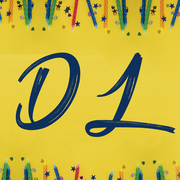
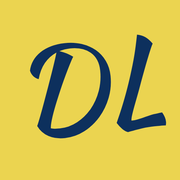
Destacar las fiestas de noche y nuevo icono DL de la web
- Portada: título, descripción, texto del hero y cinta con 'fiestas de noche'
- Página de noche orientada a 'fiestas de noche' además de despedidas
- Favicon e iconos de app con monograma DL en el estilo de la marca

diff --git a/despedidas-fiestas-noche-alhaurin-de-la-torre/index.html b/despedidas-fiestas-noche-alhaurin-de-la-torre/index.html
@@ -3,8 +3,8 @@
 <head>
   <meta charset="utf-8">
   <meta name="viewport" content="width=device-width, initial-scale=1, viewport-fit=cover">
-  <title>Local para despedidas y fiestas de noche en Alhaurín de la Torre | Diver Lauro</title>
-  <meta name="description" content="¿Despedida de soltera o soltero, cumpleaños de adultos o fiesta privada? Diver Lauro abre también de noche en Alhaurín de la Torre: música, espacio para bailar y salón climatizado. Reserva por WhatsApp.">
+  <title>Local para fiestas de noche y despedidas en Alhaurín de la Torre | Diver Lauro</title>
+  <meta name="description" content="Local para fiestas privadas de noche en Alhaurín de la Torre: cumpleaños de adultos, despedidas de soltera y soltero, aniversarios y fiestas con amigos. Música, espacio para bailar y salón climatizado. Reserva por WhatsApp.">
   <meta name="robots" content="index, follow, max-image-preview:large">
   <link rel="canonical" href="https://diverlauro.com/despedidas-fiestas-noche-alhaurin-de-la-torre/">
   <meta name="theme-color" content="#EBD450">
@@ -15,15 +15,15 @@
   <meta property="og:type" content="website">
   <meta property="og:locale" content="es_ES">
   <meta property="og:site_name" content="Diver Lauro">
-  <meta property="og:title" content="Local para despedidas y fiestas de noche en Alhaurín de la Torre | Diver Lauro">
-  <meta property="og:description" content="¿Despedida de soltera o soltero, cumpleaños de adultos o fiesta privada? Diver Lauro abre también de noche en Alhaurín de la Torre: música, espacio para bailar y salón climatizado. Reserva por WhatsApp.">
+  <meta property="og:title" content="Local para fiestas de noche y despedidas en Alhaurín de la Torre | Diver Lauro">
+  <meta property="og:description" content="Local para fiestas privadas de noche en Alhaurín de la Torre: cumpleaños de adultos, despedidas de soltera y soltero, aniversarios y fiestas con amigos. Música, espacio para bailar y salón climatizado. Reserva por WhatsApp.">
   <meta property="og:url" content="https://diverlauro.com/despedidas-fiestas-noche-alhaurin-de-la-torre/">
   <meta property="og:image" content="https://diverlauro.com/img/og-image.jpg">
   <meta property="og:image:width" content="1200">
   <meta property="og:image:height" content="630">
   <meta name="twitter:card" content="summary_large_image">
-  <meta name="twitter:title" content="Local para despedidas y fiestas de noche en Alhaurín de la Torre | Diver Lauro">
-  <meta name="twitter:description" content="¿Despedida de soltera o soltero, cumpleaños de adultos o fiesta privada? Diver Lauro abre también de noche en Alhaurín de la Torre: música, espacio para bailar y salón climatizado. Reserva por WhatsApp.">
+  <meta name="twitter:title" content="Local para fiestas de noche y despedidas en Alhaurín de la Torre | Diver Lauro">
+  <meta name="twitter:description" content="Local para fiestas privadas de noche en Alhaurín de la Torre: cumpleaños de adultos, despedidas de soltera y soltero, aniversarios y fiestas con amigos. Música, espacio para bailar y salón climatizado. Reserva por WhatsApp.">
   <meta name="twitter:image" content="https://diverlauro.com/img/og-image.jpg">
   <link rel="icon" href="/img/favicon-48.png" sizes="48x48" type="image/png">
   <link rel="icon" href="/img/favicon-32.png" sizes="32x32" type="image/png">
@@ -54,7 +54,7 @@
     {
       "@type": "ListItem",
       "position": 2,
-      "name": "Despedidas y fiestas de noche",
+      "name": "Fiestas de noche y despedidas",
       "item": "https://diverlauro.com/despedidas-fiestas-noche-alhaurin-de-la-torre/"
     }
   ]
@@ -64,9 +64,9 @@
 {
   "@context": "https://schema.org",
   "@type": "Service",
-  "name": "Despedidas y fiestas de noche en Alhaurín de la Torre",
-  "serviceType": "Despedidas y fiestas de noche",
-  "description": "¿Despedida de soltera o soltero, cumpleaños de adultos o fiesta privada? Diver Lauro abre también de noche en Alhaurín de la Torre: música, espacio para bailar y salón climatizado. Reserva por WhatsApp.",
+  "name": "Fiestas de noche en Alhaurín de la Torre",
+  "serviceType": "Fiestas de noche y despedidas",
+  "description": "Local para fiestas privadas de noche en Alhaurín de la Torre: cumpleaños de adultos, despedidas de soltera y soltero, aniversarios y fiestas con amigos. Música, espacio para bailar y salón climatizado. Reserva por WhatsApp.",
   "areaServed": "Alhaurín de la Torre, Málaga",
   "provider": {
     "@id": "https://diverlauro.com/#negocio",
@@ -197,10 +197,10 @@
     <section class="page-hero page-hero-night" aria-labelledby="page-title">
       <div class="container page-hero-inner">
         <div>
-          <nav class="crumbs reveal" aria-label="Migas de pan"><a href="/">Inicio</a> <span aria-hidden="true">/</span> <span>Despedidas y fiestas de noche</span></nav>
+          <nav class="crumbs reveal" aria-label="Migas de pan"><a href="/">Inicio</a> <span aria-hidden="true">/</span> <span>Fiestas de noche y despedidas</span></nav>
           <p class="kicker reveal" style="--d:.05s">De noche</p>
-          <h1 id="page-title" class="reveal" style="--d:.1s">Despedidas y fiestas de noche en Alhaurín de la Torre</h1>
-          <p class="hero-lead reveal" style="--d:.18s">¿Despedida de soltera o soltero, unos 40 o una fiesta con amigos? Diver Lauro también abre de noche: un salón para tu grupo con música y espacio para bailar.</p>
+          <h1 id="page-title" class="reveal" style="--d:.1s">Fiestas de noche en Alhaurín de la Torre</h1>
+          <p class="hero-lead reveal" style="--d:.18s">De noche, Diver Lauro es el sitio para tu fiesta: cumpleaños de adultos, despedidas de soltera o soltero, aniversarios o simplemente una noche con amigos. Un salón para tu grupo, con música y espacio para bailar.</p>
           <div class="hero-actions reveal" style="--d:.26s">
             <a class="btn btn-primary btn-lg" href="https://wa.me/34647913022?text=Hola%2C%20me%20gustar%C3%ADa%20informaci%C3%B3n%20para%20una%20fiesta%20de%20noche%20o%20despedida%20en%20Diver%20Lauro" target="_blank" rel="noopener"><svg class="ic"><use href="#i-chat"/></svg> Consultar por WhatsApp</a>
             <a class="btn btn-outline btn-lg" href="tel:+34647913022"><svg class="ic"><use href="#i-phone"/></svg> 647 91 30 22</a>
@@ -213,7 +213,7 @@
         <div class="page-panel reveal page-panel-night" style="--d:.15s;--c:#7A3CFF" aria-hidden="true">
             <span class="pp-ic"><svg class="ic"><use href="#i-glass"/></svg></span>
             <span class="pp-b pp-b1"></span><span class="pp-b pp-b2"></span><span class="pp-b pp-b3"></span>
-            <span class="pp-label">Despedidas · Cumpleaños · Fiestas privadas</span>
+            <span class="pp-label">Fiestas privadas · Despedidas · Cumpleaños</span>
           </div>
       </div>
     </section>
@@ -314,7 +314,7 @@
       <nav class="footer-nav" aria-label="Celebraciones">
         <a href="/cumpleanos-infantiles-alhaurin-de-la-torre/">Cumpleaños infantiles</a>
         <a href="/comuniones-bautizos-alhaurin-de-la-torre/">Comuniones y bautizos</a>
-        <a href="/despedidas-fiestas-noche-alhaurin-de-la-torre/">Despedidas y fiestas de noche</a>
+        <a href="/despedidas-fiestas-noche-alhaurin-de-la-torre/">Fiestas de noche y despedidas</a>
         <a href="/comidas-empresa-eventos-alhaurin-de-la-torre/">Empresas, peñas y eventos</a>
         <a href="/#reservar">Reservar</a>
         <a href="/#contacto">Contacto</a>

diff --git a/index.html b/index.html
@@ -3,8 +3,8 @@
 <head>
   <meta charset="utf-8">
   <meta name="viewport" content="width=device-width, initial-scale=1, viewport-fit=cover">
-  <title>Diver Lauro · Salón de celebraciones en Alhaurín de la Torre (Málaga)</title>
-  <meta name="description" content="Diver Lauro, salón de celebraciones en Alhaurín de la Torre (Málaga). Cumpleaños, comuniones, bautizos, bodas, despedidas y comidas de empresa, de día y de noche. Parque de bolas, sonido y salón climatizado. Reserva: 647 91 30 22.">
+  <title>Diver Lauro · Salón de celebraciones y fiestas en Alhaurín de la Torre (Málaga)</title>
+  <meta name="description" content="Diver Lauro, salón de celebraciones en Alhaurín de la Torre (Málaga). Cumpleaños, comuniones, bautizos, bodas y comidas de empresa de día, y fiestas privadas y despedidas de noche. Parque de bolas, sonido y salón climatizado. Reserva: 647 91 30 22.">
   <meta name="robots" content="index, follow, max-image-preview:large">
   <link rel="canonical" href="https://diverlauro.com/">
   <meta name="theme-color" content="#EBD450">
@@ -15,15 +15,15 @@
   <meta property="og:type" content="website">
   <meta property="og:locale" content="es_ES">
   <meta property="og:site_name" content="Diver Lauro">
-  <meta property="og:title" content="Diver Lauro · Salón de celebraciones en Alhaurín de la Torre (Málaga)">
-  <meta property="og:description" content="Diver Lauro, salón de celebraciones en Alhaurín de la Torre (Málaga). Cumpleaños, comuniones, bautizos, bodas, despedidas y comidas de empresa, de día y de noche. Parque de bolas, sonido y salón climatizado. Reserva: 647 91 30 22.">
+  <meta property="og:title" content="Diver Lauro · Salón de celebraciones y fiestas en Alhaurín de la Torre (Málaga)">
+  <meta property="og:description" content="Diver Lauro, salón de celebraciones en Alhaurín de la Torre (Málaga). Cumpleaños, comuniones, bautizos, bodas y comidas de empresa de día, y fiestas privadas y despedidas de noche. Parque de bolas, sonido y salón climatizado. Reserva: 647 91 30 22.">
   <meta property="og:url" content="https://diverlauro.com/">
   <meta property="og:image" content="https://diverlauro.com/img/og-image.jpg">
   <meta property="og:image:width" content="1200">
   <meta property="og:image:height" content="630">
   <meta name="twitter:card" content="summary_large_image">
-  <meta name="twitter:title" content="Diver Lauro · Salón de celebraciones en Alhaurín de la Torre (Málaga)">
-  <meta name="twitter:description" content="Diver Lauro, salón de celebraciones en Alhaurín de la Torre (Málaga). Cumpleaños, comuniones, bautizos, bodas, despedidas y comidas de empresa, de día y de noche. Parque de bolas, sonido y salón climatizado. Reserva: 647 91 30 22.">
+  <meta name="twitter:title" content="Diver Lauro · Salón de celebraciones y fiestas en Alhaurín de la Torre (Málaga)">
+  <meta name="twitter:description" content="Diver Lauro, salón de celebraciones en Alhaurín de la Torre (Málaga). Cumpleaños, comuniones, bautizos, bodas y comidas de empresa de día, y fiestas privadas y despedidas de noche. Parque de bolas, sonido y salón climatizado. Reserva: 647 91 30 22.">
   <meta name="twitter:image" content="https://diverlauro.com/img/og-image.jpg">
   <link rel="icon" href="/img/favicon-48.png" sizes="48x48" type="image/png">
   <link rel="icon" href="/img/favicon-32.png" sizes="32x32" type="image/png">
@@ -265,8 +265,8 @@
           </span>
         </h1>
         <p class="hero-lead reveal" style="--d:.3s">
-          Cumpleaños, comuniones, bodas, despedidas, comidas de empresa… Un salón amplio con parque de bolas para los peques
-          y espacio de sobra para que los mayores lo den todo. <strong>Tú pones la fiesta, nosotros el sitio.</strong>
+          De día, cumpleaños, comuniones y comidas familiares con parque de bolas para los peques.
+          De noche, <a class="lead-link" href="/despedidas-fiestas-noche-alhaurin-de-la-torre/">fiestas para mayores</a>: despedidas, cumpleaños y celebraciones con música hasta tarde. <strong>Tú pones la fiesta, nosotros el sitio.</strong>
         </p>
         <div class="mode-switch reveal" style="--d:.38s" role="group" aria-label="Elige el tipo de fiesta">
           <button type="button" data-set-mode="day"><svg class="ic"><use href="#i-sun"/></svg> Fiesta de día</button>
@@ -287,7 +287,7 @@
 
     <div class="marquee" aria-hidden="true">
       <div class="marquee-track">
-        <span>Cumpleaños</span><b>✦</b><span>Comuniones</span><b>✦</b><span>Bautizos</span><b>✦</b><span>Bodas</span><b>✦</b><span>Despedidas de solter@s</span><b>✦</b><span>Comidas de empresa</span><b>✦</b><span>Aniversarios</span><b>✦</b><span>Peñas y eventos</span><b>✦</b><span>Fiestas infantiles</span><b>✦</b><span>Cumpleaños</span><b>✦</b><span>Comuniones</span><b>✦</b><span>Bautizos</span><b>✦</b><span>Bodas</span><b>✦</b><span>Despedidas de solter@s</span><b>✦</b><span>Comidas de empresa</span><b>✦</b><span>Aniversarios</span><b>✦</b><span>Peñas y eventos</span><b>✦</b><span>Fiestas infantiles</span><b>✦</b>
+        <span>Cumpleaños</span><b>✦</b><span>Comuniones</span><b>✦</b><span>Bautizos</span><b>✦</b><span>Bodas</span><b>✦</b><span>Fiestas de noche</span><b>✦</b><span>Despedidas de solter@s</span><b>✦</b><span>Comidas de empresa</span><b>✦</b><span>Aniversarios</span><b>✦</b><span>Peñas y eventos</span><b>✦</b><span>Fiestas infantiles</span><b>✦</b><span>Cumpleaños</span><b>✦</b><span>Comuniones</span><b>✦</b><span>Bautizos</span><b>✦</b><span>Bodas</span><b>✦</b><span>Fiestas de noche</span><b>✦</b><span>Despedidas de solter@s</span><b>✦</b><span>Comidas de empresa</span><b>✦</b><span>Aniversarios</span><b>✦</b><span>Peñas y eventos</span><b>✦</b><span>Fiestas infantiles</span><b>✦</b>
       </div>
     </div>
 
@@ -319,8 +319,8 @@
           </a>
           <a class="cel-card reveal tilt" style="--d:0.23s;--c:#9B5DE5" href="/despedidas-fiestas-noche-alhaurin-de-la-torre/">
             <span class="cel-ic"><svg class="ic"><use href="#i-glass"/></svg></span>
-            <h3>Despedidas y fiestas de noche</h3>
-            <p>Despedidas de soltera y soltero, cumpleaños de adultos y fiestas privadas.</p>
+            <h3>Fiestas de noche y despedidas</h3>
+            <p>Fiestas privadas para mayores, despedidas de soltera y soltero y cumpleaños de adultos.</p>
             <span class="cel-more">Ver más <svg class="ic"><use href="#i-arrow"/></svg></span>
           </a>
           <a class="cel-card reveal tilt" style="--d:0.29s;--c:#FF4FD8" href="/despedidas-fiestas-noche-alhaurin-de-la-torre/">
@@ -625,7 +625,7 @@
       <nav class="footer-nav" aria-label="Celebraciones">
         <a href="/cumpleanos-infantiles-alhaurin-de-la-torre/">Cumpleaños infantiles</a>
         <a href="/comuniones-bautizos-alhaurin-de-la-torre/">Comuniones y bautizos</a>
-        <a href="/despedidas-fiestas-noche-alhaurin-de-la-torre/">Despedidas y fiestas de noche</a>
+        <a href="/despedidas-fiestas-noche-alhaurin-de-la-torre/">Fiestas de noche y despedidas</a>
         <a href="/comidas-empresa-eventos-alhaurin-de-la-torre/">Empresas, peñas y eventos</a>
         <a href="/#reservar">Reservar</a>
         <a href="/#contacto">Contacto</a>

diff --git a/redes-sociales/plantillas/perfil__icono-web.html b/redes-sociales/plantillas/perfil__icono-web.html
@@ -1,0 +1,24 @@
+<!doctype html><html lang="es"><head><meta charset="utf-8"><title>Diver Lauro</title>
+<link rel="preconnect" href="https://fonts.gstatic.com" crossorigin>
+<link href="https://fonts.googleapis.com/css2?family=Bricolage+Grotesque:opsz,wght@12..96,700;12..96,800&family=Kaushan+Script&family=Plus+Jakarta+Sans:wght@500;700;800&display=block" rel="stylesheet">
+<style>:root{--w:512px;--h:512px}
+:root { --y:#EBD450; --n:#0D305D; --c:#F25C54; --b:#2B7BE4; --p:#FF4FD8; --m:#16B39A; }
+* { box-sizing: border-box; }
+html, body { margin: 0; width: var(--w); height: var(--h); overflow: hidden; }
+body { position: relative; font-family: "Plus Jakarta Sans", sans-serif; color: var(--n); background: var(--y); }
+h1, h2 { font-family: "Bricolage Grotesque", sans-serif; font-weight: 800; letter-spacing: -.04em; line-height: .95; margin: 0; }
+.script { font-family: "Kaushan Script", cursive; font-weight: 400; letter-spacing: 0; }
+.logo { display: block; }
+.b { position: absolute; border-radius: 50% 50% 47% 47% / 55% 55% 45% 45%;
+  background-image: radial-gradient(circle at 32% 26%, rgba(255,255,255,.85) 0 5%, rgba(255,255,255,.3) 13%, transparent 34%), radial-gradient(circle at 72% 82%, rgba(0,0,0,.18), transparent 55%);
+  box-shadow: inset -14px -20px 40px rgba(0,0,0,.12); }
+.b::after { content: ""; position: absolute; left: 50%; top: 100%; width: 3px; height: 70%; background: linear-gradient(rgba(13,48,93,.45), transparent); }
+.conf i { position: absolute; width: 18px; height: 32px; border-radius: 4px; }
+.pill { display: inline-block; padding: 18px 34px; border-radius: 999px; font-weight: 800; font-size: 34px; }
+.foot { position: absolute; left: 0; right: 0; bottom: 56px; display: flex; justify-content: center; gap: 22px; align-items: center; font-weight: 800; font-size: 30px; }
+.foot span { display: inline-flex; align-items: center; gap: 10px; }
+</style></head><body>
+<div style="position:absolute;inset:0;background:#EBD450"></div>
+<div style="position:absolute;inset:0;display:grid;place-items:center">
+  <span class="script" style="font-size:330px;line-height:1;color:#0D305D;transform:translate(-6px,-14px) rotate(-6deg)">DL</span>
+</div></body></html>

diff --git a/comuniones-bautizos-alhaurin-de-la-torre/index.html b/comuniones-bautizos-alhaurin-de-la-torre/index.html
@@ -285,7 +285,7 @@
         </div>
         <div class="cel-grid cel-grid-sm">
           <a class="cel-card cel-card-sm reveal" style="--c:#F25C54" href="/cumpleanos-infantiles-alhaurin-de-la-torre/"><span class="cel-ic"><svg class="ic"><use href="#i-cake"/></svg></span><h3>Cumpleaños infantiles</h3><span class="cel-more">Ver más <svg class="ic"><use href="#i-arrow"/></svg></span></a>
-          <a class="cel-card cel-card-sm reveal" style="--c:#9B5DE5" href="/despedidas-fiestas-noche-alhaurin-de-la-torre/"><span class="cel-ic"><svg class="ic"><use href="#i-glass"/></svg></span><h3>Despedidas y fiestas de noche</h3><span class="cel-more">Ver más <svg class="ic"><use href="#i-arrow"/></svg></span></a>
+          <a class="cel-card cel-card-sm reveal" style="--c:#9B5DE5" href="/despedidas-fiestas-noche-alhaurin-de-la-torre/"><span class="cel-ic"><svg class="ic"><use href="#i-glass"/></svg></span><h3>Fiestas de noche y despedidas</h3><span class="cel-more">Ver más <svg class="ic"><use href="#i-arrow"/></svg></span></a>
           <a class="cel-card cel-card-sm reveal" style="--c:#16B39A" href="/comidas-empresa-eventos-alhaurin-de-la-torre/"><span class="cel-ic"><svg class="ic"><use href="#i-briefcase"/></svg></span><h3>Empresas, peñas y eventos</h3><span class="cel-more">Ver más <svg class="ic"><use href="#i-arrow"/></svg></span></a>
         </div>
       </div>
@@ -314,7 +314,7 @@
       <nav class="footer-nav" aria-label="Celebraciones">
         <a href="/cumpleanos-infantiles-alhaurin-de-la-torre/">Cumpleaños infantiles</a>
         <a href="/comuniones-bautizos-alhaurin-de-la-torre/">Comuniones y bautizos</a>
-        <a href="/despedidas-fiestas-noche-alhaurin-de-la-torre/">Despedidas y fiestas de noche</a>
+        <a href="/despedidas-fiestas-noche-alhaurin-de-la-torre/">Fiestas de noche y despedidas</a>
         <a href="/comidas-empresa-eventos-alhaurin-de-la-torre/">Empresas, peñas y eventos</a>
         <a href="/#reservar">Reservar</a>
         <a href="/#contacto">Contacto</a>

diff --git a/cumpleanos-infantiles-alhaurin-de-la-torre/index.html b/cumpleanos-infantiles-alhaurin-de-la-torre/index.html
@@ -281,7 +281,7 @@
         </div>
         <div class="cel-grid cel-grid-sm">
           <a class="cel-card cel-card-sm reveal" style="--c:#2B7BE4" href="/comuniones-bautizos-alhaurin-de-la-torre/"><span class="cel-ic"><svg class="ic"><use href="#i-heart"/></svg></span><h3>Comuniones y bautizos</h3><span class="cel-more">Ver más <svg class="ic"><use href="#i-arrow"/></svg></span></a>
-          <a class="cel-card cel-card-sm reveal" style="--c:#9B5DE5" href="/despedidas-fiestas-noche-alhaurin-de-la-torre/"><span class="cel-ic"><svg class="ic"><use href="#i-glass"/></svg></span><h3>Despedidas y fiestas de noche</h3><span class="cel-more">Ver más <svg class="ic"><use href="#i-arrow"/></svg></span></a>
+          <a class="cel-card cel-card-sm reveal" style="--c:#9B5DE5" href="/despedidas-fiestas-noche-alhaurin-de-la-torre/"><span class="cel-ic"><svg class="ic"><use href="#i-glass"/></svg></span><h3>Fiestas de noche y despedidas</h3><span class="cel-more">Ver más <svg class="ic"><use href="#i-arrow"/></svg></span></a>
           <a class="cel-card cel-card-sm reveal" style="--c:#16B39A" href="/comidas-empresa-eventos-alhaurin-de-la-torre/"><span class="cel-ic"><svg class="ic"><use href="#i-briefcase"/></svg></span><h3>Empresas, peñas y eventos</h3><span class="cel-more">Ver más <svg class="ic"><use href="#i-arrow"/></svg></span></a>
         </div>
       </div>
@@ -310,7 +310,7 @@
       <nav class="footer-nav" aria-label="Celebraciones">
         <a href="/cumpleanos-infantiles-alhaurin-de-la-torre/">Cumpleaños infantiles</a>
         <a href="/comuniones-bautizos-alhaurin-de-la-torre/">Comuniones y bautizos</a>
-        <a href="/despedidas-fiestas-noche-alhaurin-de-la-torre/">Despedidas y fiestas de noche</a>
+        <a href="/despedidas-fiestas-noche-alhaurin-de-la-torre/">Fiestas de noche y despedidas</a>
         <a href="/comidas-empresa-eventos-alhaurin-de-la-torre/">Empresas, peñas y eventos</a>
         <a href="/#reservar">Reservar</a>
         <a href="/#contacto">Contacto</a>

diff --git a/comidas-empresa-eventos-alhaurin-de-la-torre/index.html b/comidas-empresa-eventos-alhaurin-de-la-torre/index.html
@@ -286,7 +286,7 @@
         <div class="cel-grid cel-grid-sm">
           <a class="cel-card cel-card-sm reveal" style="--c:#F25C54" href="/cumpleanos-infantiles-alhaurin-de-la-torre/"><span class="cel-ic"><svg class="ic"><use href="#i-cake"/></svg></span><h3>Cumpleaños infantiles</h3><span class="cel-more">Ver más <svg class="ic"><use href="#i-arrow"/></svg></span></a>
           <a class="cel-card cel-card-sm reveal" style="--c:#2B7BE4" href="/comuniones-bautizos-alhaurin-de-la-torre/"><span class="cel-ic"><svg class="ic"><use href="#i-heart"/></svg></span><h3>Comuniones y bautizos</h3><span class="cel-more">Ver más <svg class="ic"><use href="#i-arrow"/></svg></span></a>
-          <a class="cel-card cel-card-sm reveal" style="--c:#9B5DE5" href="/despedidas-fiestas-noche-alhaurin-de-la-torre/"><span class="cel-ic"><svg class="ic"><use href="#i-glass"/></svg></span><h3>Despedidas y fiestas de noche</h3><span class="cel-more">Ver más <svg class="ic"><use href="#i-arrow"/></svg></span></a>
+          <a class="cel-card cel-card-sm reveal" style="--c:#9B5DE5" href="/despedidas-fiestas-noche-alhaurin-de-la-torre/"><span class="cel-ic"><svg class="ic"><use href="#i-glass"/></svg></span><h3>Fiestas de noche y despedidas</h3><span class="cel-more">Ver más <svg class="ic"><use href="#i-arrow"/></svg></span></a>
         </div>
       </div>
     </section>
@@ -314,7 +314,7 @@
       <nav class="footer-nav" aria-label="Celebraciones">
         <a href="/cumpleanos-infantiles-alhaurin-de-la-torre/">Cumpleaños infantiles</a>
         <a href="/comuniones-bautizos-alhaurin-de-la-torre/">Comuniones y bautizos</a>
-        <a href="/despedidas-fiestas-noche-alhaurin-de-la-torre/">Despedidas y fiestas de noche</a>
+        <a href="/despedidas-fiestas-noche-alhaurin-de-la-torre/">Fiestas de noche y despedidas</a>
         <a href="/comidas-empresa-eventos-alhaurin-de-la-torre/">Empresas, peñas y eventos</a>
         <a href="/#reservar">Reservar</a>
         <a href="/#contacto">Contacto</a>

diff --git a/css/styles.css b/css/styles.css
@@ -670,3 +670,7 @@ button, input, select, textarea { font: inherit; color: inherit; }
   *, *::before, *::after { animation-duration: .001ms !important; animation-iteration-count: 1 !important; transition-duration: .001ms !important; transition-delay: 0s !important; }
   .reveal { opacity: 1; transform: none; }
 }
+
+/* enlace dentro del texto del hero */
+.lead-link { color: var(--ink); font-weight: 700; text-decoration: underline; text-decoration-color: var(--accent); text-decoration-thickness: 2px; text-underline-offset: 3px; }
+.lead-link:hover { color: var(--accent); }

diff --git a/tools/build.py b/tools/build.py
@@ -96,14 +96,14 @@ PAGES = [
     },
     {
         "slug": "despedidas-fiestas-noche-alhaurin-de-la-torre",
-        "card": "Despedidas y fiestas de noche", "icon": "glass", "color": "#9B5DE5",
-        "card_text": "Despedidas de soltera y soltero, cumpleaños de adultos y fiestas privadas.",
-        "title": "Local para despedidas y fiestas de noche en Alhaurín de la Torre | Diver Lauro",
-        "desc": "¿Despedida de soltera o soltero, cumpleaños de adultos o fiesta privada? Diver Lauro abre también de noche en Alhaurín de la Torre: música, espacio para bailar y salón climatizado. Reserva por WhatsApp.",
-        "h1": "Despedidas y fiestas de noche en Alhaurín de la Torre",
+        "card": "Fiestas de noche y despedidas", "icon": "glass", "color": "#9B5DE5",
+        "card_text": "Fiestas privadas para mayores, despedidas de soltera y soltero y cumpleaños de adultos.",
+        "title": "Local para fiestas de noche y despedidas en Alhaurín de la Torre | Diver Lauro",
+        "desc": "Local para fiestas privadas de noche en Alhaurín de la Torre: cumpleaños de adultos, despedidas de soltera y soltero, aniversarios y fiestas con amigos. Música, espacio para bailar y salón climatizado. Reserva por WhatsApp.",
+        "h1": "Fiestas de noche en Alhaurín de la Torre",
         "kicker": "De noche",
-        "lead": "¿Despedida de soltera o soltero, unos 40 o una fiesta con amigos? Diver Lauro también abre de noche: un salón para tu grupo con música y espacio para bailar.",
-        "panel": ("glass", "#7A3CFF", "Despedidas · Cumpleaños · Fiestas privadas"),
+        "lead": "De noche, Diver Lauro es el sitio para tu fiesta: cumpleaños de adultos, despedidas de soltera o soltero, aniversarios o simplemente una noche con amigos. Un salón para tu grupo, con música y espacio para bailar.",
+        "panel": ("glass", "#7A3CFF", "Fiestas privadas · Despedidas · Cumpleaños"),
         "night": True,
         "wa": "Hola, me gustaría información para una fiesta de noche o despedida en Diver Lauro",
         "features": [
@@ -378,8 +378,8 @@ def stars():
 
 def build_home():
     ld = [BUSINESS_LD, faq_ld(HOME_FAQ)]
-    html = head("Diver Lauro · Salón de celebraciones en Alhaurín de la Torre (Málaga)",
-                f"Diver Lauro, salón de celebraciones en Alhaurín de la Torre (Málaga). Cumpleaños, comuniones, bautizos, bodas, despedidas y comidas de empresa, de día y de noche. Parque de bolas, sonido y salón climatizado. Reserva: {PHONE}.",
+    html = head("Diver Lauro · Salón de celebraciones y fiestas en Alhaurín de la Torre (Málaga)",
+                f"Diver Lauro, salón de celebraciones en Alhaurín de la Torre (Málaga). Cumpleaños, comuniones, bautizos, bodas y comidas de empresa de día, y fiestas privadas y despedidas de noche. Parque de bolas, sonido y salón climatizado. Reserva: {PHONE}.",
                 "/", ld)
     html += header(True)
     html += f"""
@@ -396,8 +396,8 @@ def build_home():
           </span>
         </h1>
         <p class="hero-lead reveal" style="--d:.3s">
-          Cumpleaños, comuniones, bodas, despedidas, comidas de empresa… Un salón amplio con parque de bolas para los peques
-          y espacio de sobra para que los mayores lo den todo. <strong>Tú pones la fiesta, nosotros el sitio.</strong>
+          De día, cumpleaños, comuniones y comidas familiares con parque de bolas para los peques.
+          De noche, <a class="lead-link" href="/despedidas-fiestas-noche-alhaurin-de-la-torre/">fiestas para mayores</a>: despedidas, cumpleaños y celebraciones con música hasta tarde. <strong>Tú pones la fiesta, nosotros el sitio.</strong>
         </p>
         <div class="mode-switch reveal" style="--d:.38s" role="group" aria-label="Elige el tipo de fiesta">
           <button type="button" data-set-mode="day">{ic("sun")} Fiesta de día</button>
@@ -418,7 +418,7 @@ def build_home():
 
     <div class="marquee" aria-hidden="true">
       <div class="marquee-track">
-        {("<span>Cumpleaños</span><b>✦</b><span>Comuniones</span><b>✦</b><span>Bautizos</span><b>✦</b><span>Bodas</span><b>✦</b><span>Despedidas de solter@s</span><b>✦</b><span>Comidas de empresa</span><b>✦</b><span>Aniversarios</span><b>✦</b><span>Peñas y eventos</span><b>✦</b><span>Fiestas infantiles</span><b>✦</b>" * 2)}
+        {("<span>Cumpleaños</span><b>✦</b><span>Comuniones</span><b>✦</b><span>Bautizos</span><b>✦</b><span>Bodas</span><b>✦</b><span>Fiestas de noche</span><b>✦</b><span>Despedidas de solter@s</span><b>✦</b><span>Comidas de empresa</span><b>✦</b><span>Aniversarios</span><b>✦</b><span>Peñas y eventos</span><b>✦</b><span>Fiestas infantiles</span><b>✦</b>" * 2)}
       </div>
     </div>
 

diff --git a/tools/redes.py b/tools/redes.py
@@ -233,6 +233,14 @@ DESIGNS["perfil/perfil-azul"] = (W, H, page(W, H, f"""
 <img src="{LOGO_Y}" style="position:absolute;left:50%;top:50%;width:880px;transform:translate(-50%,-58%)">
 <p style="position:absolute;left:0;right:0;top:640px;text-align:center;margin:0;font-weight:800;font-size:58px;letter-spacing:.06em;color:#fff">SALÓN DE CELEBRACIONES</p>"""))
 
+# Icono de la web (favicon / icono de app): monograma "DL" con el estilo de la marca
+W, H = 512, 512
+DESIGNS["perfil/icono-web"] = (W, H, page(W, H, """
+<div style="position:absolute;inset:0;background:#EBD450"></div>
+<div style="position:absolute;inset:0;display:grid;place-items:center">
+  <span class="script" style="font-size:330px;line-height:1;color:#0D305D;transform:translate(-6px,-14px) rotate(-6deg)">DL</span>
+</div>"""))
+
 # --------------------- PORTADAS (Facebook y Google) ---------------------
 # Facebook: 1640x856. Lo importante va en el centro (en móvil recorta los lados y en PC arriba/abajo).
 W, H = 1640, 856
@@ -297,6 +305,11 @@ def main():
         im.thumbnail((96, 96))
         im.save(web / "perfil-sm.webp", "WEBP", quality=85)
         print("OK  img/redes/ (miniaturas para la web)")
+        # iconos de la web a partir del monograma
+        ico = Image.open(OUT / "perfil/icono-web.png").convert("RGB")
+        for size, name in ((512, "icon-512.png"), (192, "icon-192.png"), (180, "apple-touch-icon.png"), (48, "favicon-48.png"), (32, "favicon-32.png")):
+            ico.resize((size, size), Image.LANCZOS).save(ROOT / "img" / name, optimize=True)
+        print("OK  img/ (favicon e iconos de la web)")
     except ImportError:
         print("Pillow no instalado: no se generan las miniaturas de la web")
 
